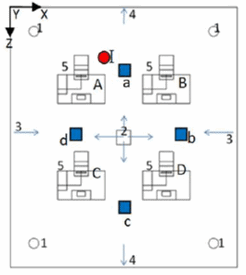
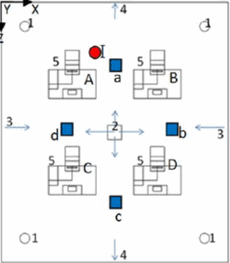
Added the area selection function.

diff --git a/firmwSign/XAKAsensorPanel.py b/firmwSign/XAKAsensorPanel.py
@@ -35,48 +35,59 @@ class MapPanel(wx.Panel):
     """
 
     def __init__(self, parent):
-        """ Init the panel.
-        """
+        """ Init the panel."""
         wx.Panel.__init__(self, parent, size=(350, 300))
         self.SetBackgroundColour(wx.Colour(200, 210, 200))
-        self.SetBackgroundColour(wx.Colour(200, 210, 200))
         self.bitmap = wx.Bitmap(gv.BGPNG_PATH)
+        self.bitmapSZ = self.bitmap.GetSize()
         self.Bind(wx.EVT_PAINT, self.OnPaint)
-        self.pplNum = 0 
+        self.pplNum = 0
+        self.highLightIdx = 0
+        self.Bind(wx.EVT_LEFT_DOWN, self.OnClick)
 
-    
     def OnPaint(self, event):
         dc = wx.PaintDC(self)
         dc.DrawBitmap(self.bitmap, 1, 1)
-        dc.DrawBitmap(self.bitmap, 246, 1)
         # Dc Draw the detection area.
-        dc.SetPen(wx.Pen('#0AB1FF', width=4, style=wx.PENSTYLE_DOT))
-        dc.DrawLine(3, 3, 123, 3)
-        dc.DrawLine(3, 3, 3, 137)
-        dc.DrawLine(123, 3, 123, 137)
-        dc.DrawLine(3, 137, 123, 137)
-
-        #dc.SetBrush(wx.Brush('#4c4c4c', wx.TRANSPARENT))
-        #dc.DrawRectangle(10, 10, 120, 135)
-
+        dc.SetPen(wx.Pen('RED', width=3, style=wx.PENSTYLE_DOT))
+        w, h = self.bitmapSZ[0]//2, self.bitmapSZ[1]//2
+        self.DrawHighLight(dc,w, h)
+        # Draw the transparent rectangle to represent how many people in the area.
         gdc = wx.GCDC(dc)
-
         r = g = b = 120
-        brushclr = wx.Colour(r+self.pplNum*7, g-self.pplNum*7, b, 128)   # half transparent
+        brushclr = wx.Colour(r+self.pplNum*7, g, b, 128)   # half transparent
         gdc.SetBrush(wx.Brush(brushclr))
-        #rect = wx.Rect(0,0, 100, 100)
-        gdc.DrawRectangle(10 , 10, 110, 120)
+        gdc.DrawRectangle(1, 1, w, h)
+    
+    def DrawHighLight(self, dc, w, h):
+        """ High light the area user clicked"""
+        l, t, r, b, x_offset, y_offset = 1, 1, w, h, 0, 0
+        
+        if self.highLightIdx == 1:
+            x_offset = w
+        elif self.highLightIdx == 2:
+            y_offset = h
+        elif self.highLightIdx == 3:
+            x_offset = w
+            y_offset = h
 
-        #gc = wx.GraphicsContext.Create(dc)
-        #if gc:
-        #    # make a path that contains a circle and some lines
-        #    gc.SetPen(wx.RED_PEN)
-        #    gc.SetBrush(wx.Brush((250,0,0)))
-        #    path = gc.CreatePath()
-        #    path.AddRectangle(25.0, 25.0, 50.0, 50.0)
-        #    gc.FillPath(path)
+        dc.DrawLine(l+x_offset, t+y_offset, r+x_offset, t+y_offset)
+        dc.DrawLine(l+x_offset, t+y_offset, l+x_offset, b+y_offset)
+        dc.DrawLine(r+x_offset, t+y_offset, r+x_offset, b+y_offset)
+        dc.DrawLine(l+x_offset, b+y_offset, r+x_offset, b+y_offset)
 
-        #    gc.StrokePath(path)
+    def OnClick(self, event):
+        x, y = event.GetPosition()
+        w, h = self.bitmapSZ[0]//2, self.bitmapSZ[1]//2
+        if x < w and y < h: 
+            self.highLightIdx = 0 
+        elif x >= w and y < h: 
+            self.highLightIdx = 1 
+        elif x <w and y >=h:
+            self.highLightIdx = 2
+        else:
+            self.highLightIdx = 3
+        self.updateDisplay()
 
     def updateNum(self, number):
         self.pplNum = int(number)
